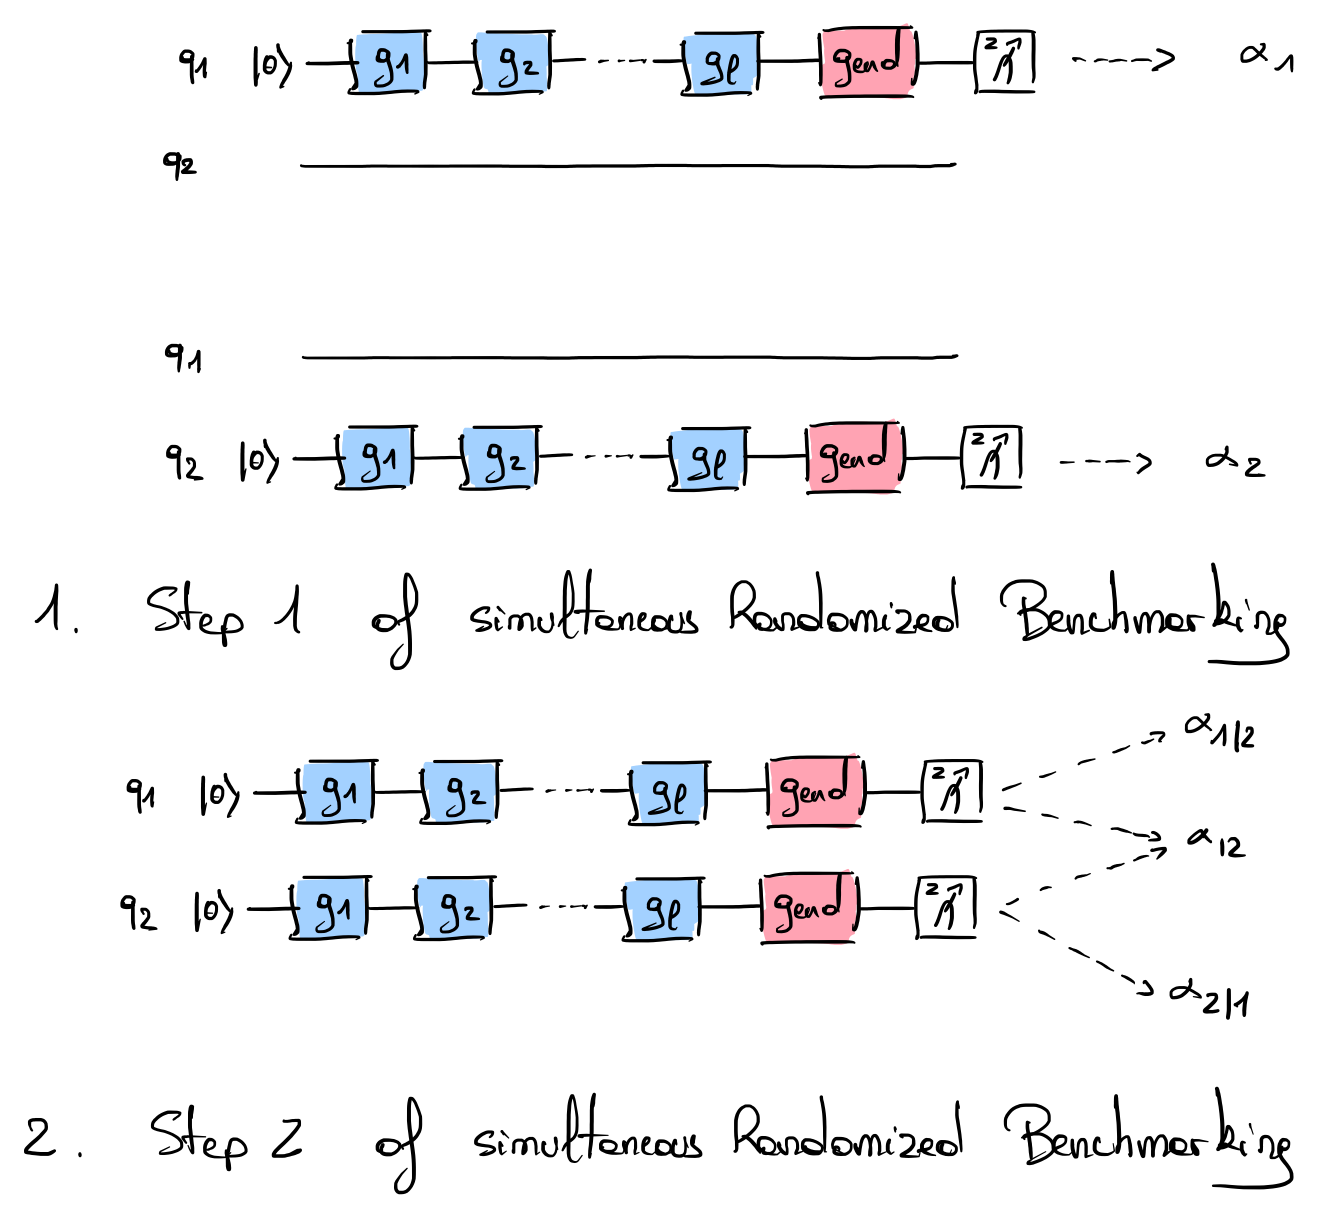
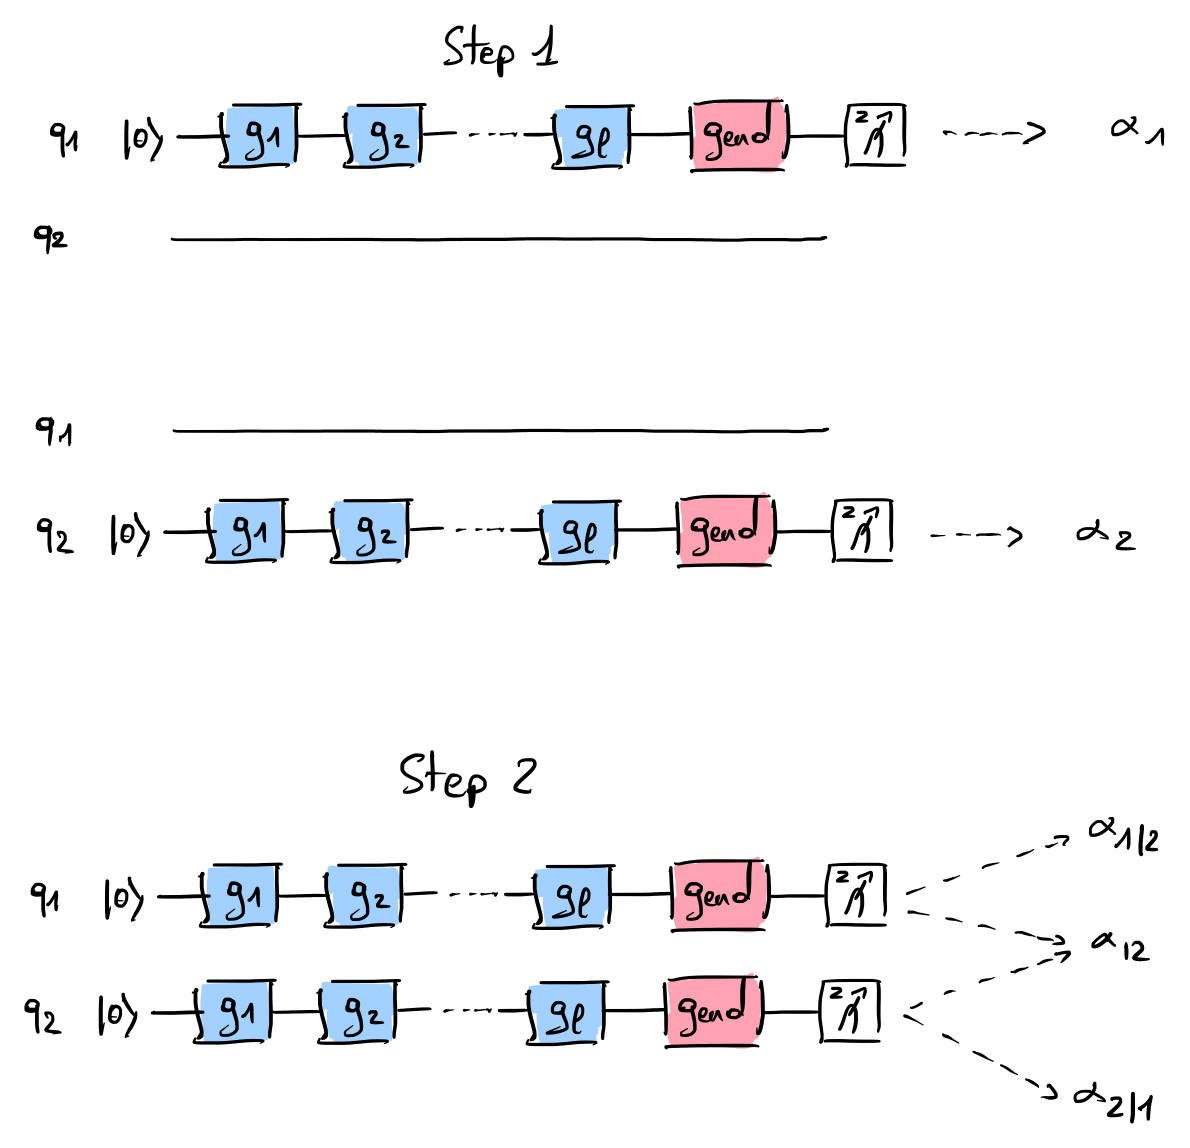
feat-update: randomized benchmarking removing useless files feat-update: Kunlun experiment with qLDPC codes

diff --git a/content/system-level-benchmark/randomized/protocols.md b/content/system-level-benchmark/randomized/protocols.md
@@ -41,59 +41,62 @@ The initial protocol of RB was proposed by J. Emerson {% cite emerson2005scalabl
 
 Motivations: 
 - Create a protocol that is resistant to state preparation and measurement (SPAM) errors.
-- Obtain a better scalability compared to process tomography
+- Obtain a better scalability compared to process tomography.
 
 Protocol:
-- Each gate $$G_i$$ consist of a rotation pulse of the Clifford group combined with a rotation pulse $$P_i$$ that depolarize the noise.
+- Each gate $$G_i$$ consist of a rotation pulse of the Clifford group combined with a rotation pulse $$P_i$$ that depolarize the noise (under markovian assumption).
 - The invertion gate $$R$$ is efficiently computed from the sequence {% cite gottesman1997stabilizer %} to get an eigenstate of the measurement basis.
-- The success metric is the probability of observing the final determinist state.
+- The success metric is the probability of observing the final determinist state. It is estimated for different lengths $$l$$ and used to fit the exponential decay function.
 
 <div class="center">
   <img src="/img/system-level-benchmark/randomized/RB-clifford-single-qubit.png" class="img-medium" alt="Quantum circuit associated to the single-qubit clifford randomized benchmarking protocol"/>
 </div>
+
+Limitations:
+- This protocol can only benchmark a single qubit.
+- This protocol is only using gates from the Clifford group.
 
 Litterature: {% cite knill2008randomized %}
 
 ## Multi-qubit Clifford Randomized Benchmarking (CRB)
 
 Motivations:
-- Extend the single-qubit RB to multi-qubit clifford group $$C_n$$
+- Extend the single-qubit RB to multi-qubit clifford group $$C_n$$.
 
 Protocol:
-- For each sequence length, Clifford gates are uniformely and efficiently sampled from $$C_n$$ {% cite Koenig2014 %}.
+- For each sequence length, Clifford gates are uniformely and efficiently sampled from $$C_n$$ {% cite Koenig2014 %}. The depth of the quantum circuit associated to each $$C_n$$ grows as $$O(n^2 / \log(n))$$.
 - The invertion unitary $$R$$ is efficiently computed from the sequence {% cite gottesman1997stabilizer %}. The final unitary $$P$$ is a uniformely random Pauli gate.
-- The success metric is the probability of observing the Identity.
+- The success metric is the probability of observing the Identity. It is estimated for different lengths $$l$$ and used to fit the exponential decay function.
 
 <div class="center">
   <img src="/img/system-level-benchmark/randomized/RB-clifford-multi-qubit.png" class="img-medium" alt="Quantum circuit associated to the multi-qubits clifford randomized benchmarking protocol"/>
 </div>
 
-Limits:
+Limitations:
 - Each gate of the Clifford group $$C_n$$ has an implementation cost of $$O(n^2 / \log(n))$$ single and two qubit gates
 - Strongly dependent on the compilation step
 
 Litterature: {% cite magesan2011scalable %}
-
 
 # Other gate set Randomized Benchmarking
 
 ## Direct Randomized Benchmarking (DRB)
 
 Motivations: 
-- A single gate of a Clifford group $$\mathbb{C}_n$$ requires $$O(n^2 / \log(n))$$ one and two-qubit gate, which leads to scaliability limits.
-- Provide the ability to benchmark custom gate sets (e.g. the native gate set of a quantum computer)
+- A single gate of a Clifford group $$\mathbb{C}_n$$ requires $$O(n^2 / \log(n))$$ one and two-qubit gates, which leads to relatively deep circuits for a large number of qubits. Hence, CRB cannot be evaluated on a large number of qubits as the fidelity becomes vanishingly small.
+- Provide the ability to benchmark custom gate sets other than the clifford group (e.g. the native gate set of a quantum computer).
 
 Protocol:
 - A random n-qubit stabilizer state is created to form $$\rho_0$$.
 - Each gate is build from the user's probability distribution $$\mu$$ (e.g. each layer $$g_i$$ having $$1/4$$ probability of having a single CNOT, with the rest composed of random single-qubit rotations). The group should be able to generate gates of the $$\mathbb{C}_n$$ Clifford group.
 - The ending gate project the state of a random computational basis state.
-- The success metric is the probability of observing the final bitstring $$b$$.
+- The success metric is the probability of observing the final bitstring $$b$$. The success probability strongly depends on the distribution $$\mu$$ and on the compiler. All these informations should be reported together.
 
 <div class="center">
   <img src="/img/system-level-benchmark/randomized/RB-DRB.png" class="img-medium" alt="Quantum circuit associated to the direct randomized benchmarking protocol"/>
 </div>
 
-Limits: 
+Limitations: 
 - Stabilizer initialization and measurement implementations still require $$O(n^2 / \log(n))$$ gates.
 - The protocol is not scalable as it requires to emulate the output of the quantum circuit to define the bitstring $$b$$.
 
@@ -117,7 +120,7 @@ Protocol:
   <img src="/img/system-level-benchmark/randomized/RB-BiRB.png" class="img-medium" alt="Quantum circuit associated to the Binary randomized benchmarking protocol"/>
 </div>
 
-Limits: 
+Limitations: 
 - There is still scaling issues for large circuits as the final layer is computed from 
 <!-- Voir si possibilité d'extraire les limites, est-ce que ça scale ? -->
 
@@ -139,29 +142,48 @@ Protocol:
 </div>
 
 
-Limits:
+Limitations:
 - If the errors of $$\mu$$-distributed gates and their inverse are correlated, MRB slightly underestimates the error rate of the gate set.
 
 
-## 4. Randomized Benchmarking for cross talk errors
+#  Randomized Benchmarking for cross talk errors
 
-### 4.1 Simultaneous Randomized Benchmarking
+## Simultaneous Randomized Benchmarking
+
+Motivations:  
+- Definition of a protocol that quantifies the rate of cross-talk errors arising during the parallel execution of quantum gates.
 
 
+Protocol:  
+We illustrate the protocol for the case of single-qubit Clifford group simultaneous RB on a two-qubit chip.
+- The protocol begins with the standard RB protocol performed for each qubit (see Step 1): A single-qubit Clifford RB is executed on one qubit while others are kept idle. The decay parameters $$\alpha_1$$ and $$\alpha_2$$ are then extracted respectively for qubit 1 and qubit 2. 
+- In a second step, a single-qubit RB is run simultaneously on both qubits, enabling the extraction of three decay parameters (see Step 2): $$\alpha_{1 \vert 2}$$, $$\alpha_{2 \vert 1}$$ and $$\alpha_{12}$$. The parameters $$\alpha_{1 \vert 2}$$ and $$\alpha_{2 \vert 1}$$ are obtained from measurements of the first and second qubit. The joint decay parameter $$\alpha_{12}$$ is retrieved from the measurements of qubit 1 and 2.
+- The values $$\alpha_{1}$$ and $$\alpha_{1 \vert 2}$$ (resp. $$\alpha_{2}$$ and $$\alpha_{2 \vert 1}$$) can be used to measure the errors added on qubit 1 (resp. 2) due to simultaneous quantum gates operations on qubit 2 (resp. 1). 
+- Potential correlations in the errors are obtained with the value $$\alpha_{12} -\alpha_{1 \vert 2} \alpha_{2 \vert 1}$$.
 
-### 4.2 Correlated Randomized Benchmarking
+<div class="center">
+  <img src="/img/system-level-benchmark/randomized/RB-simultaneous.png" class="img-medium" alt="Quantum circuit associated to the simultaneous randomized benchmarking protocol"/>
+</div>
+
+Limitations:
+<!-- Add something on the limitations -->
+
+<!-- 
+### Protocol Assumptions
+
+- Quantum noise can be represented by a quantum operation that do not depend on the choice of the unitary.
+- Quantum noise has low variations in error-rate over the gate set.
+- The correlation time of the environment is much longer than the time of a single operation.
+- Randomization depolarize the noise (Clifford gates have the property of depolarizing the noise). It avoids to use the self-inversion.
+- The depolarization probability of $$\frac{\pi}{2}$$ pulses does not depend on the previous pulse in the calculation.
+-->
+
+Litterature: {% cite Gambetta2012 %}, {% cite McKay2019 %}, {% cite mckay2023benchmarking %}
+
+
+## Correlated Randomized Benchmarking
 <!-- D. C. McKay, A. W. Cross, C. J. Wood, and J. M. Gambetta, arXive e-print quant-ph/2003.02354 -->
 
-
-
-
-## Quantum volume protocols
-
-{% assign qv = site.randomized-protocols.volume-benchmarks | where: "page-id", "quantum-volume" | first %}
-- <a href="{{ qv.url | prepend: site.baseurl }}">Quantum Volume</a>
-
-{% assign clops = site.randomized-protocols.volume-benchmarks | where: "page-id", "clops" | first %}
-- <a href="{{ clops.url | prepend: site.baseurl }}">Circuit Layer Operation Per Second (CLOPS)</a>
 
 # References
 

diff --git a/content/system-level-benchmark/others/quantum-volume.md b/content/system-level-benchmark/others/quantum-volume.md
@@ -60,15 +60,15 @@ This circuit is then used as input for the sampling task associated with the Hea
 * The circuit compiler may use all the possible tricks to improve the mapping of the quantum circuit, which can lead to possibly high extra-processing time. In {% cite baldwin2022re %}, the authors show that the compilation has a strong impact on small quantum volumes ($$< 10$$) as it can reduce the number of 2-qubit gates.
 * The quantum computer should honestly attempt to solve the HOG problem and not choose an implementation far from the initial model of the circuit (i.e., the approximation error should be limited).
 
+## Limitations
+- Quantum volume assesses only a limited subset of best-quality qubits within a quantum processor and does not provide a comprehensive measure of the overall fidelity or performance of quantum operations across the entire chip.
+- Previous experiments {% cite pelofske2022quantum %} have shown that the Quantum Volume measured by quantum chip manufacturers is often hard to reproduce due to advanced optimization settings (compilation optimization and approximation of quantum gates) used to boost the performance of the quantum computer for passing this test.
+
 ## Protocol Variations
 
 In {% cite baldwin2022re %}, the authors argue that the confidence interval built in the initial test {% cite cross2019validating %} is more restrictive than necessary. They propose a new tighter confidence interval that still covers the initial requirement of $$97.73\%$$ (using bootstrapping).
 
 In {% cite bistron2025benchmarking %}, the authors extend the quantum volume protocol to verify the output sampling distribution for large experiments. This method uses parity tests to determine the heavy output probability distribution efficiently.
-
-## Comments on the Quantum Volume
-
-Previous experiments {% cite pelofske2022quantum %} have shown that the Quantum Volume measured by quantum chip manufacturers is often hard to reproduce due to advanced optimization settings (compilation optimization and approximation of quantum gates) used to boost the performance of the quantum computer for passing this test.
 
 # References
 {% bibliography --cited %}

diff --git a/content/system-level-benchmark/others/eplg.md b/content/system-level-benchmark/others/eplg.md
@@ -1,0 +1,38 @@
+---
+description: >
+  Error Per Layered Gate
+---
+
+# Error Per Layered Gate Protocol (EPLG)
+
+It also permits to rapidly extract lower bounds on 2-qubit error rates.
+
+## Motivation
+This protocol is developped by IBM as a supplement of the quantum volume protocol. The quantum volume only focuses on a specific high performing subset of qubits on the quantum chip. The eplg aims to evaluate the performance of a whole quantum computer chip instead.
+
+## Protocol details
+The protocol consits in selecting $$n$$ qubits from the quantum chip used to implement an interconnection pattern using two-qubit gates (e.g., CNOT, SWAP, CZ etc.). This pattern may not be fully implemented in depth-1 (i.e., fully parallelized gates). Instead, this interconnection pattern is devided in several subsets (called layers), which all have depth-1 parallel gate application (see Fig. 1). 
+
+For each layer $$m$$, the error of the gates is measured using simultaneous randomized benchmarking (see Fig. 2). The fidelity extracted with the RB protocol permits to obtain a fidelity per layer (when $$i$$ denotes the qubit):
+
+$$LF_m = \prod_i F_{i, m}$$
+
+The full layer fidelity is then defined as:
+
+$$LF = \prod_m LF_{m}$$
+
+It is then used to define the error per layer gate:
+
+$$EPLG = 1 - LF^{1/n_{2q}}$$
+
+where $n_{2q}$ defines the number of 2-qubit gates in all the layers. The protocol stipulates that the barriers should be enforced and that the error on all the qubits should be measured. Error mitigation methods such as dynamical decoupling are allowed.
+
+## Assumptions
+- The equation that computes $$LF_m$$ is only valid if there is no cross-talk errors. The second expression defining $$LF$$ defines a lower bound on the error and is only a good approximation if the error is low.  
+- This protocol relies on simultaneous RB and hence, assume that the noise is Markovian. 
+
+## Limitations
+<!-- add some limitation to the eplg -->
+
+# References
+{% bibliography --cited %}
